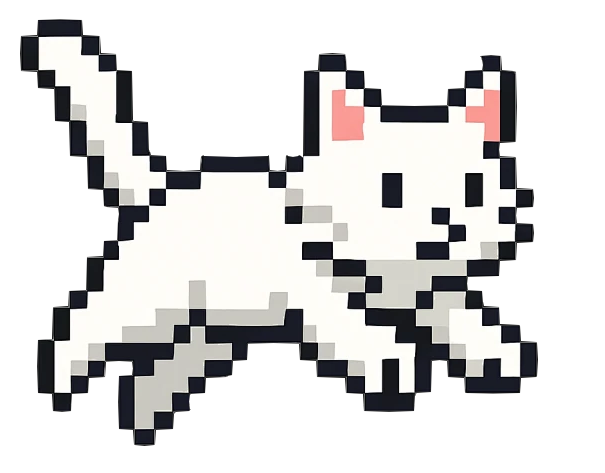
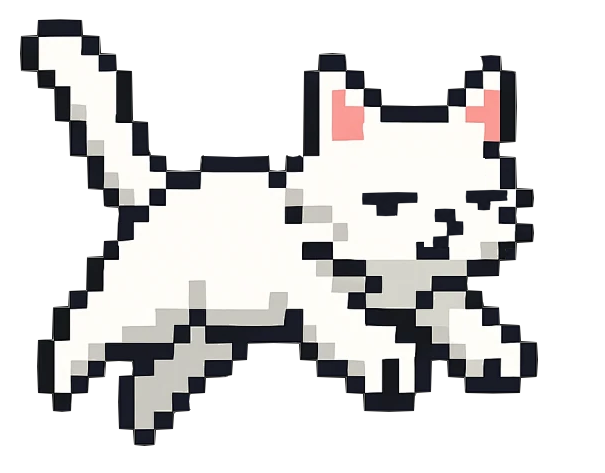
小白主角美术替换为重绘版 cat.png
- assets/cat.png: 重绘像素风白猫（605x473，面朝右奔跑姿态），渲染逻辑自适应无需改代码
- characters.js/sprites.js: cat.png 引用加 ?v=20260907 防缓存
- index.html: sprites r36/characters r64 版本号

Changed region(s): [[0.595, 0.3552, 0.8331, 0.5328]]

diff --git a/index.html b/index.html
@@ -122,8 +122,8 @@
   </div>
 </div>
 
-<script src="js/sprites.js?v=20260907r35"></script>
-<script src="js/characters.js?v=20260906r63"></script>
+<script src="js/sprites.js?v=20260907r36"></script>
+<script src="js/characters.js?v=20260907r64"></script>
 <script src="js/config.js?v=20260906r60"></script>
 <script src="js/audio.js?v=20260906r30"></script>
 <script src="js/music.js?v=20260906r53"></script>

diff --git a/js/sprites.js b/js/sprites.js
@@ -1074,7 +1074,7 @@
     const im = new Image();
     im.onload = () => { Sprites.cat = im; resolve(im); };
     im.onerror = () => { console.warn('[Sprites] 未找到 assets/cat.png，白猫素材缺失'); resolve(null); };
-    im.src = 'assets/cat.png';
+    im.src = 'assets/cat.png?v=20260907';
   });
 
   window.Sprites = Sprites;

diff --git a/js/characters.js b/js/characters.js
@@ -8,7 +8,7 @@
 
   const list = {
     xiaobai: {
-      id: 'xiaobai', name: '小白', art: 'assets/cat.png', icon: '🐱',
+      id: 'xiaobai', name: '小白', art: 'assets/cat.png?v=20260907', icon: '🐱',
       speedMul: 1, dmg: 10, fireMul: 1,
       kind: 'bolt', ult: 'wave',
       tag: '飞虎',
